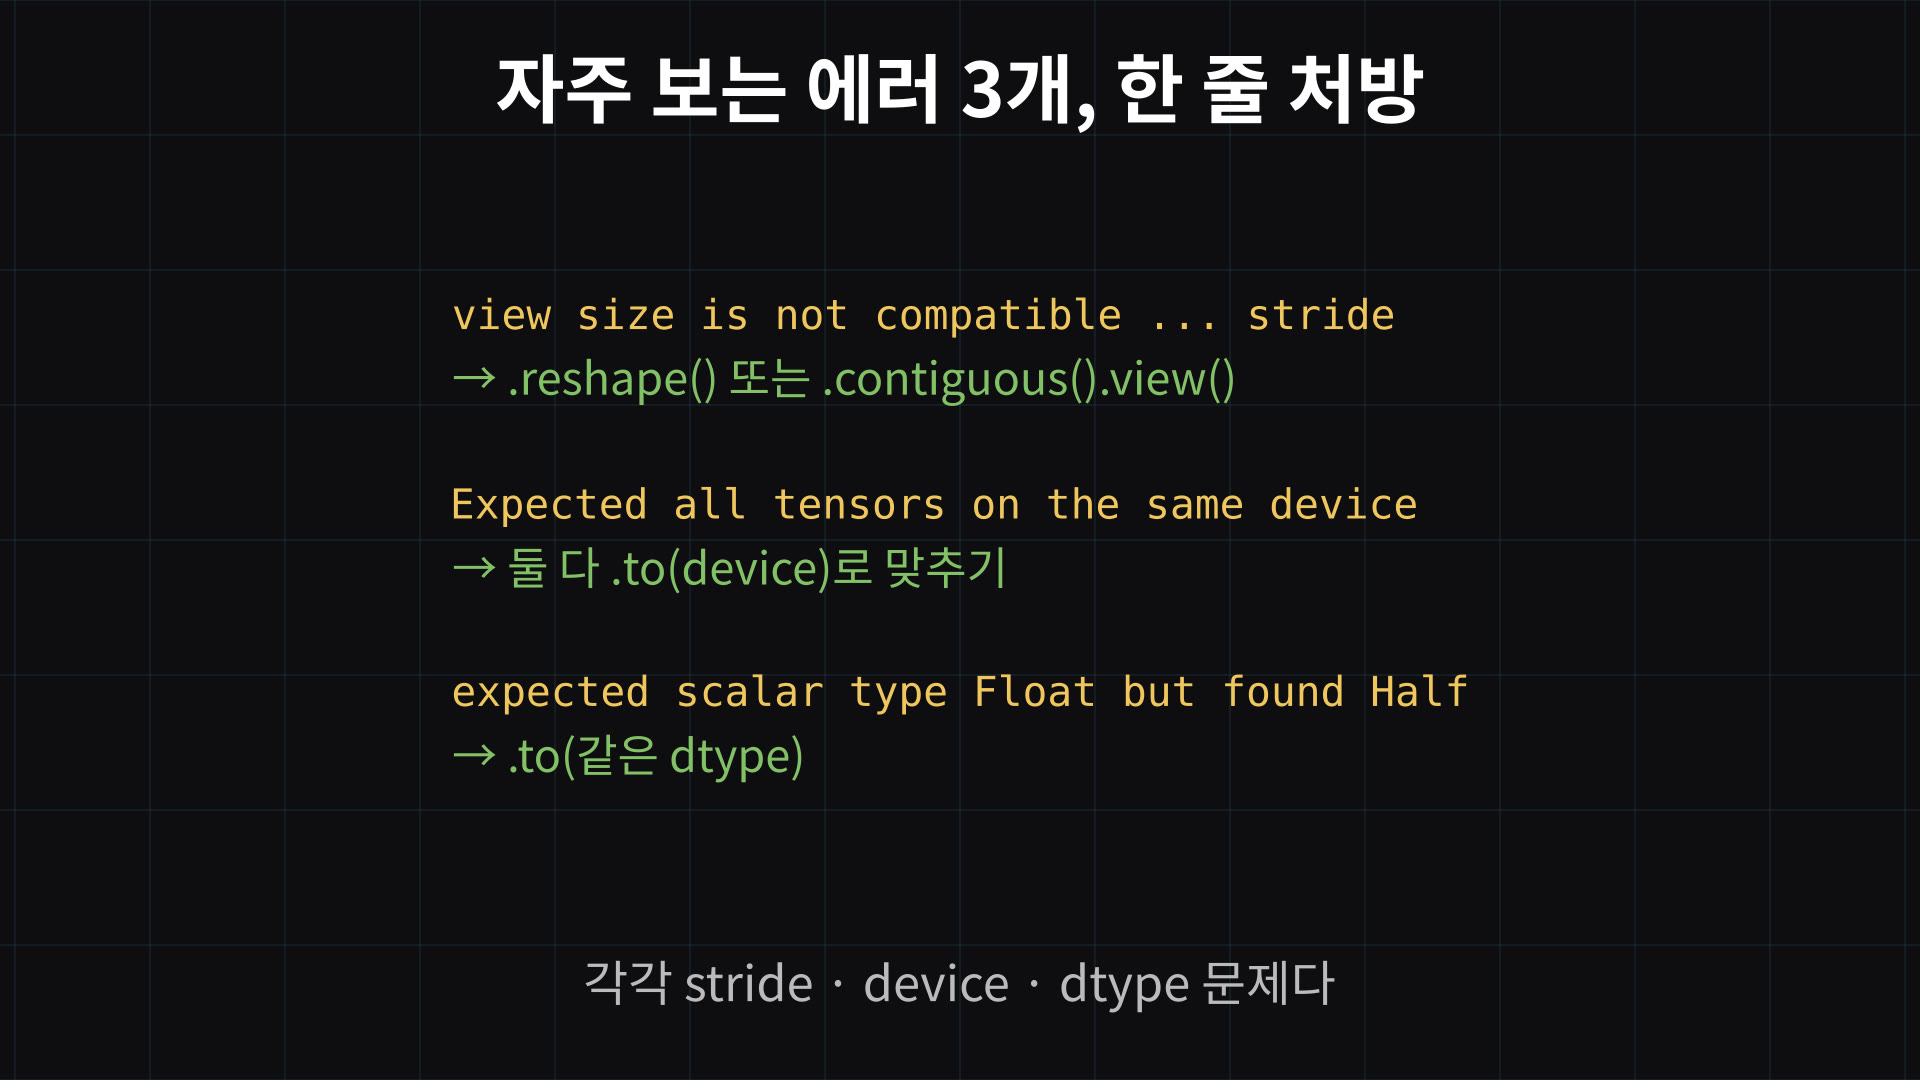
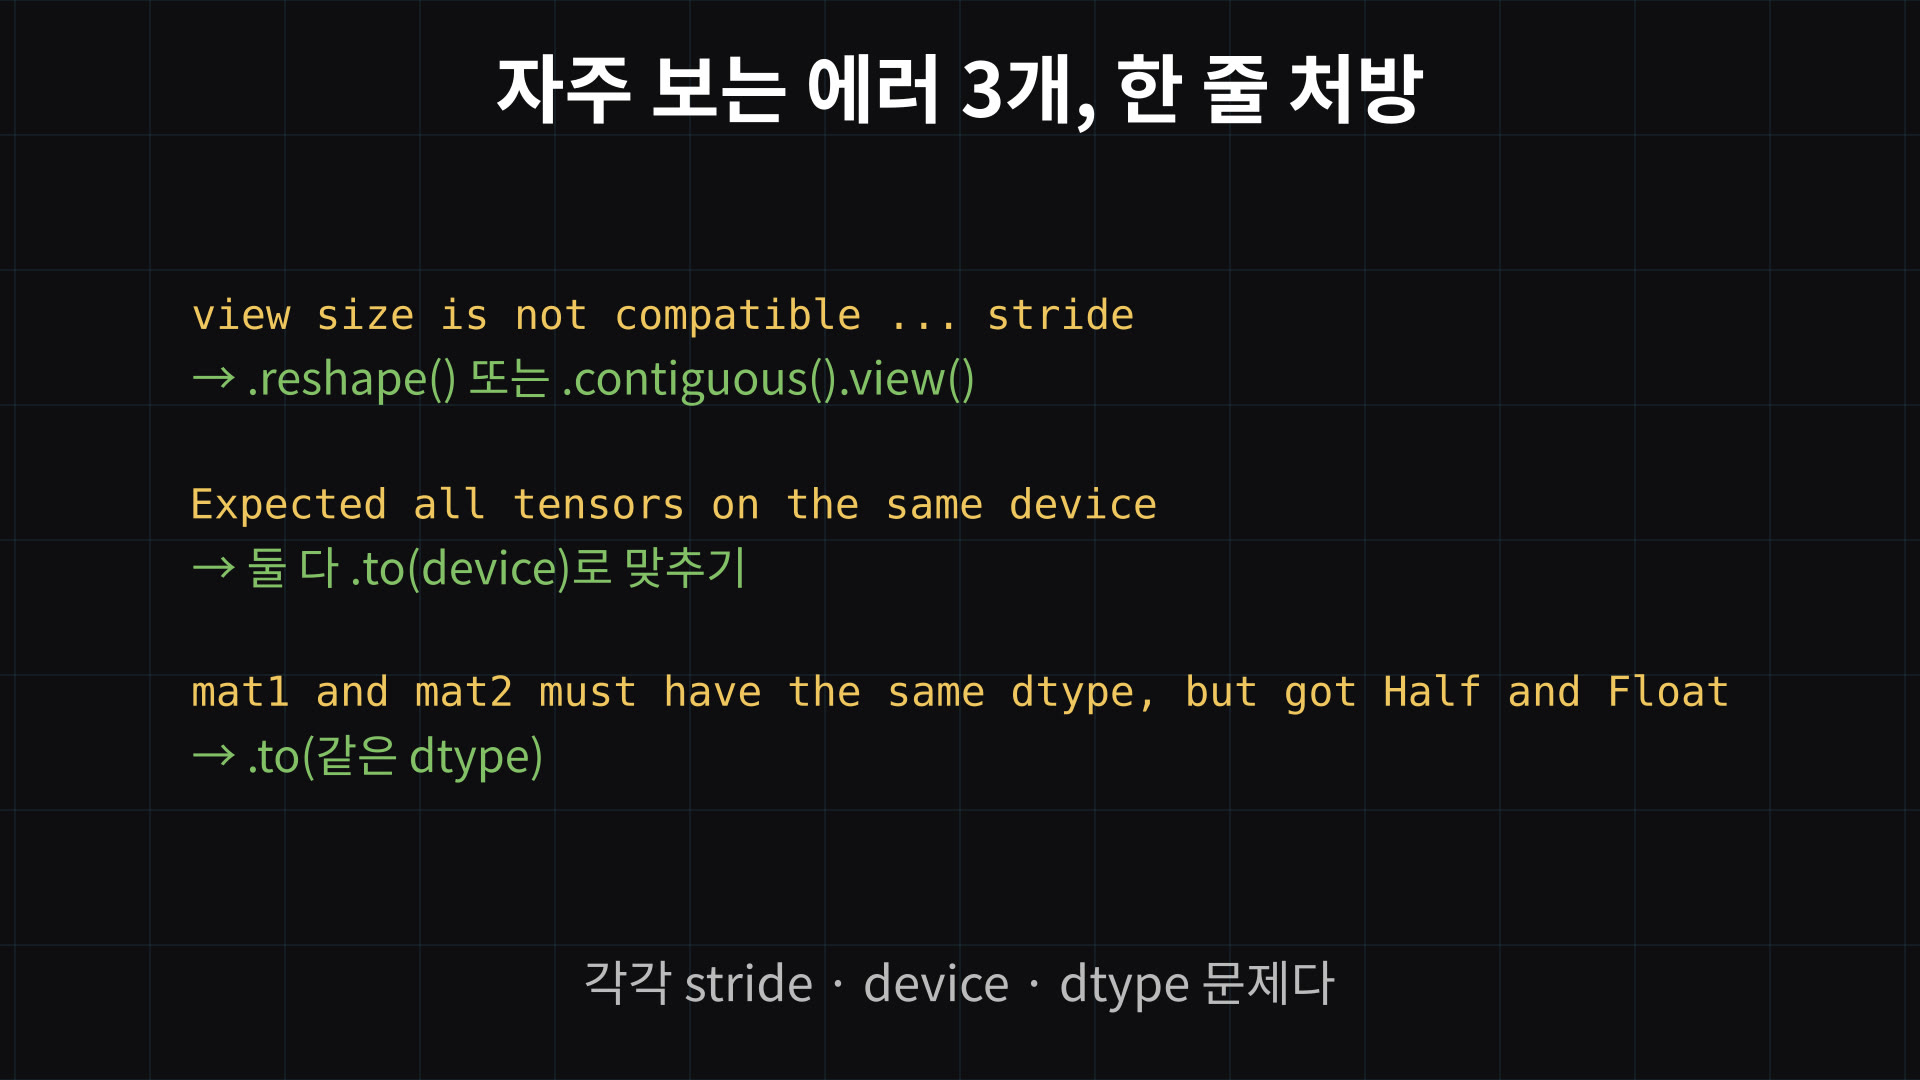
PyTorch ch2 beginner in-place rewrite (+3 Manim figs); ch1 real dtype error text

diff --git a/_posts/2026-10-25-pytorch-01-tensor.md b/_posts/2026-10-25-pytorch-01-tensor.md
@@ -22,7 +22,7 @@ tags: [pytorch, tensor, stride, view, contiguous, dtype, device, pytorch-series]
 
 - `RuntimeError: view size is not compatible with input tensor's size and stride`
 - `Expected all tensors to be on the same device`
-- `expected scalar type Float but found Half`
+- `mat1 and mat2 must have the same dtype, but got Half and Float`
 
 그리고 시리즈 뒤쪽(ATen, `torch.compile`, `torch.export`, 양자화)도 전부 이 장의 단어 여섯 개 — **storage, shape, stride, offset, dtype, device** — 로 이야기해요. 그래서 이 장은 조금 길어도 천천히 가요.
 
